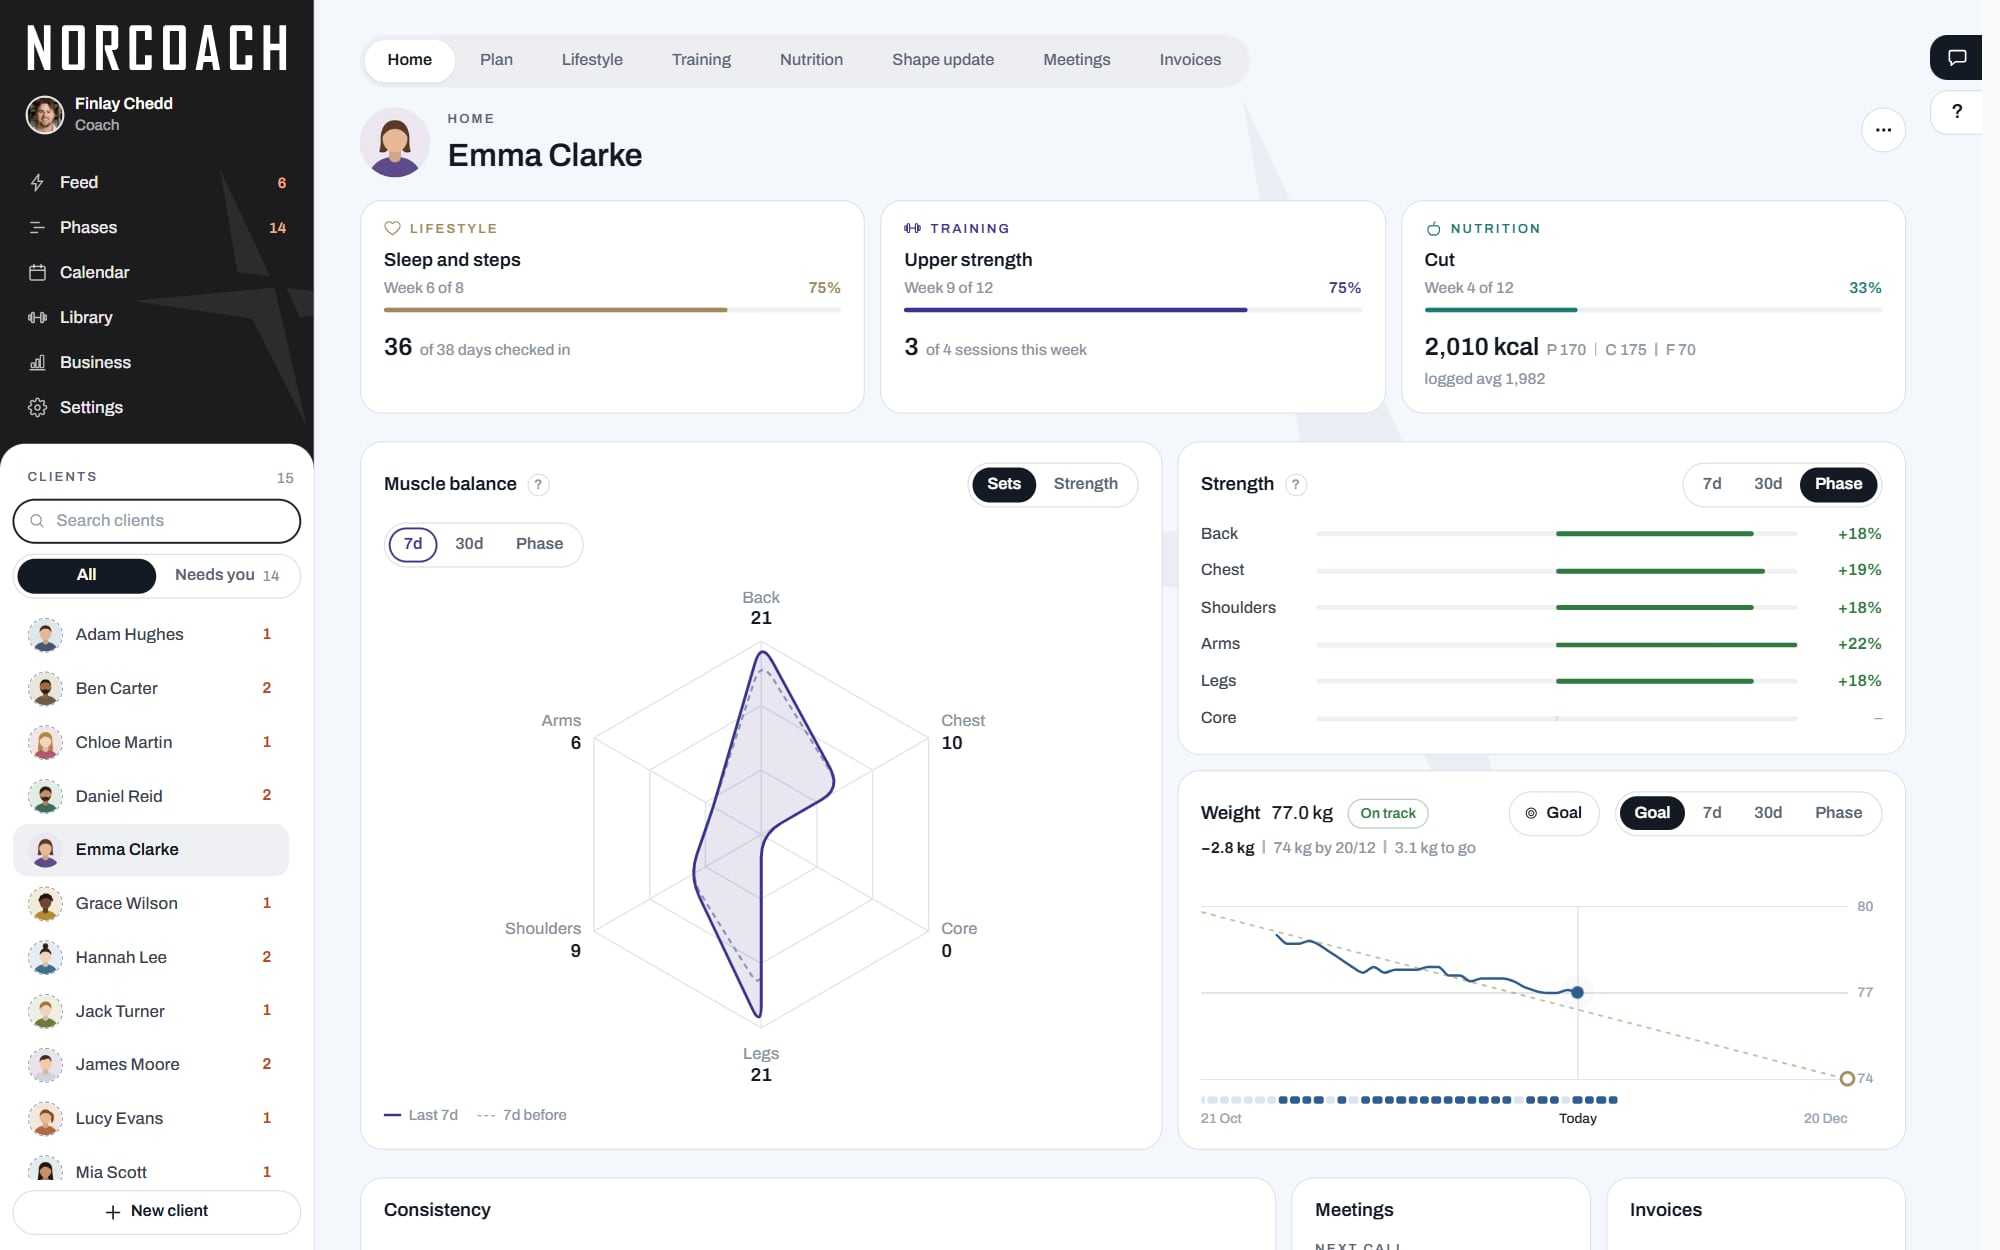
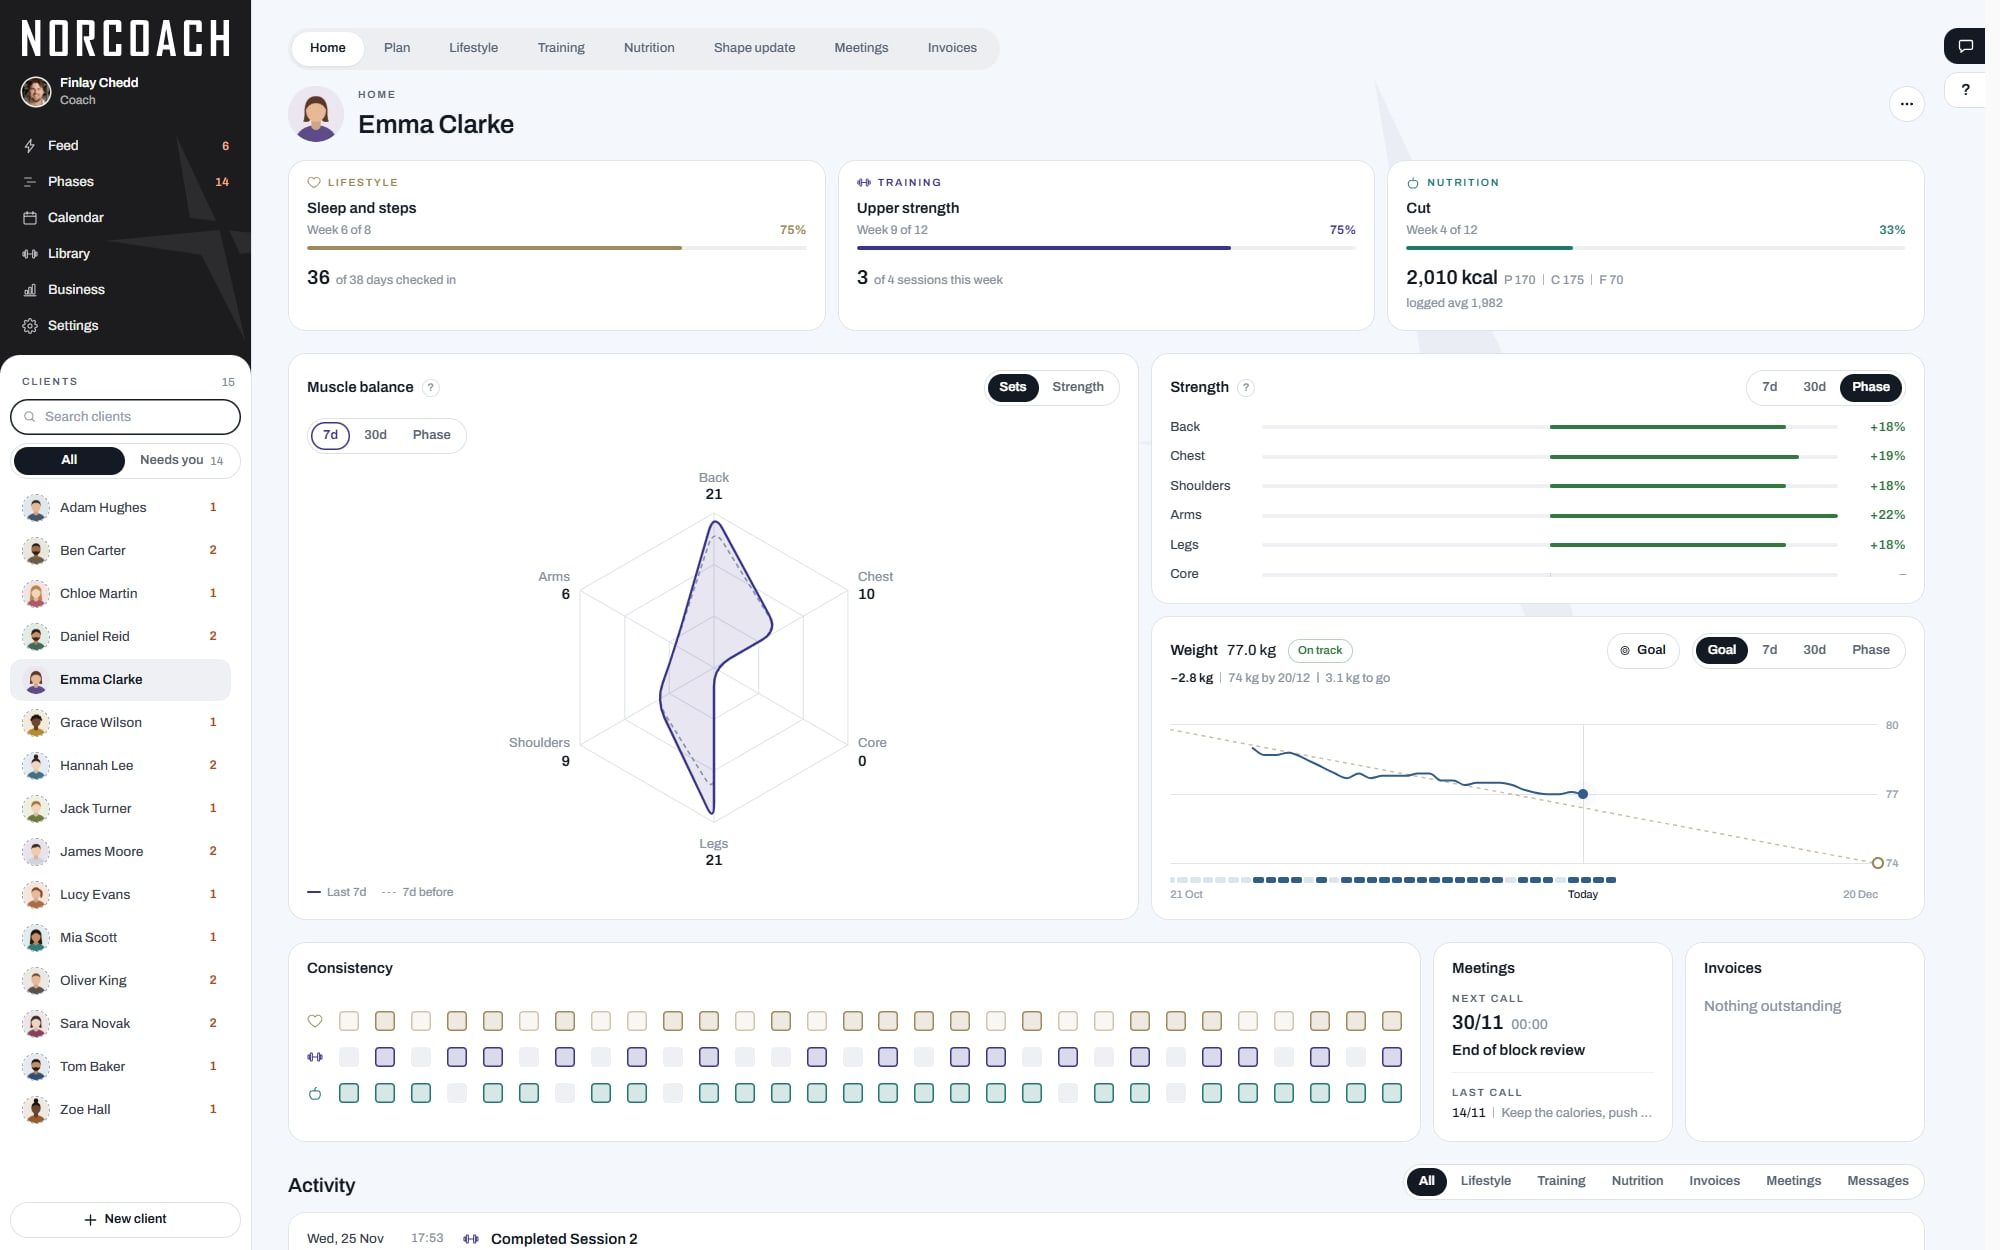
The laptop pictures at 2000 wide (25 Nov, Alex: "the trainings snapshot has a cut off part there on the data"): Training's whole table fits, Emma's sets, Last session and 30 days, and all twelve weeks; the other three taken the same size so they match.

diff --git a/website/index.html b/website/index.html
@@ -59,7 +59,7 @@
     <div class="devices">
       <div class="devices-in">
         <div class="laptop">
-          <div class="lid"><div class="screen"><img src="img/snaps/coach-home.jpg?v=2511b" width="2000" height="1250" draggable="false" alt="Norcoach on the coach’s laptop: a client’s Home, with their lifestyle, training and nutrition phases, muscle balance, strength and weight." fetchpriority="high"></div></div>
+          <div class="lid"><div class="screen"><img src="img/snaps/coach-home.jpg?v=2511c" width="2000" height="1250" draggable="false" alt="Norcoach on the coach’s laptop: a client’s Home, with their lifestyle, training and nutrition phases, muscle balance, strength and weight." fetchpriority="high"></div></div>
           <div class="base"></div>
         </div>
         <div class="phone"><div class="screen"><img src="img/snaps/phone-home.jpg?v=2511b" width="780" height="1688" draggable="false" alt="Norcoach on the client’s phone: their Home, with today’s session, their lifestyle phase and their weight." fetchpriority="high"></div></div>
@@ -144,9 +144,9 @@
         <div class="devices-in">
           <div class="laptop">
             <div class="lid"><div class="screen stack">
-              <img src="img/snaps/coach-lifestyle.jpg?v=2511b" width="2000" height="1250" loading="lazy" decoding="async" draggable="false" aria-hidden="true" alt="The coach’s Lifestyle tab: the metrics this client checks in on each day, and their check-ins as graphs.">
-              <img class="on" src="img/snaps/coach-training.jpg?v=2511b" width="2000" height="1250" loading="lazy" decoding="async" draggable="false" alt="The coach’s Training tab: week 9 of a strength programme, each set the client logged beside the coach’s target.">
-              <img src="img/snaps/coach-nutrition.jpg?v=2511b" width="2000" height="1250" loading="lazy" decoding="async" draggable="false" aria-hidden="true" alt="The coach’s Nutrition tab: calories and macros for training days, supplements, and what the client logged.">
+              <img src="img/snaps/coach-lifestyle.jpg?v=2511c" width="2000" height="1250" loading="lazy" decoding="async" draggable="false" aria-hidden="true" alt="The coach’s Lifestyle tab: the metrics this client checks in on each day, and their check-ins as graphs.">
+              <img class="on" src="img/snaps/coach-training.jpg?v=2511c" width="2000" height="1250" loading="lazy" decoding="async" draggable="false" alt="The coach’s Training tab: week 9 of a strength programme, each set the client logged beside the coach’s target.">
+              <img src="img/snaps/coach-nutrition.jpg?v=2511c" width="2000" height="1250" loading="lazy" decoding="async" draggable="false" aria-hidden="true" alt="The coach’s Nutrition tab: calories and macros for training days, supplements, and what the client logged.">
             </div></div>
             <div class="base"></div>
           </div>

diff --git a/website/training.html b/website/training.html
@@ -59,7 +59,7 @@
     <div class="devices">
       <div class="devices-in">
         <div class="laptop">
-          <div class="lid"><div class="screen"><img src="img/snaps/coach-training.jpg?v=2511b" width="2000" height="1250" draggable="false" alt="The coach’s Training tab: week 9 of a strength programme, each set the client logged beside the coach’s target." fetchpriority="high"></div></div>
+          <div class="lid"><div class="screen"><img src="img/snaps/coach-training.jpg?v=2511c" width="2000" height="1250" draggable="false" alt="The coach’s Training tab: week 9 of a strength programme, each set the client logged beside the coach’s target." fetchpriority="high"></div></div>
           <div class="base"></div>
         </div>
         <div class="phone"><div class="screen"><img src="img/snaps/phone-training.jpg?v=2511b" width="780" height="1688" draggable="false" alt="A workout on the client’s phone: the exercise, the coach’s note with his face, the target, and the set being logged." fetchpriority="high"></div></div>

diff --git a/website/nutrition.html b/website/nutrition.html
@@ -59,7 +59,7 @@
     <div class="devices">
       <div class="devices-in">
         <div class="laptop">
-          <div class="lid"><div class="screen"><img src="img/snaps/coach-nutrition.jpg?v=2511b" width="2000" height="1250" draggable="false" alt="The coach’s Nutrition tab: calories and macros for training days, supplements, and what the client logged." fetchpriority="high"></div></div>
+          <div class="lid"><div class="screen"><img src="img/snaps/coach-nutrition.jpg?v=2511c" width="2000" height="1250" draggable="false" alt="The coach’s Nutrition tab: calories and macros for training days, supplements, and what the client logged." fetchpriority="high"></div></div>
           <div class="base"></div>
         </div>
         <div class="phone"><div class="screen"><img src="img/snaps/phone-nutrition.jpg?v=2511b" width="780" height="1688" draggable="false" alt="The client’s Nutrition screen on their phone: the day’s targets as a ring, their supplements and their coach’s note." fetchpriority="high"></div></div>

diff --git a/website/lifestyle.html b/website/lifestyle.html
@@ -59,7 +59,7 @@
     <div class="devices">
       <div class="devices-in">
         <div class="laptop">
-          <div class="lid"><div class="screen"><img src="img/snaps/coach-lifestyle.jpg?v=2511b" width="2000" height="1250" draggable="false" alt="The coach’s Lifestyle tab: the metrics this client checks in on each day, and their check-ins as graphs." fetchpriority="high"></div></div>
+          <div class="lid"><div class="screen"><img src="img/snaps/coach-lifestyle.jpg?v=2511c" width="2000" height="1250" draggable="false" alt="The coach’s Lifestyle tab: the metrics this client checks in on each day, and their check-ins as graphs." fetchpriority="high"></div></div>
           <div class="base"></div>
         </div>
         <div class="phone"><div class="screen"><img src="img/snaps/phone-lifestyle.jpg?v=2511b" width="780" height="1688" draggable="false" alt="The client’s check-in on their phone: their weight on a graph, on its way to the goal their coach set." fetchpriority="high"></div></div>

diff --git a/scripts/website-a/demo-routes/README.md b/scripts/website-a/demo-routes/README.md
@@ -11,7 +11,7 @@ people, never real clients.
 2. The routes here (`.ts.txt`, so this repo never type-checks them) go in its `app/api/dev/<name>/route.ts` (seed-site, emma-login, legs-now): Finlay's profile and photo (no business name: Norcoach's own pictures never carry one coach's brand, 25 Nov, Alex), Emma and 14
    made-up clients with the site's avatars, her weight goal and To focus on; a login for Emma; her Legs half done today.
 3. Start it (launch config `demo`, port 3010), sign in once as the coach, open the three routes in that order.
-4. `MSYS_NO_PATHCONV=1 node shoot-demo.cjs <outDir> 1 coach-home=/clients/1/home …` for the laptop (1600×1000 at 1.25);
+4. `MSYS_NO_PATHCONV=1 node shoot-demo.cjs <outDir> 1 coach-home=/clients/1/home …` for the laptop (2000×1250 at 1, so Training's whole table fits: Emma's sets, Last session and 30 days);
    `VW=390 VH=844 DPR=2 MOBILE=1` with the coach's preview (`/client?phone=1&client=1&screen=home|nutrition`) or Emma's
    own login (user 2) for the phone, adding `native-app` and `--sat: 50px` so the clock has its room;
    `node statusbar.cjs <snaps> <out> phone-home:w …` draws 9:41 and the island over it.
